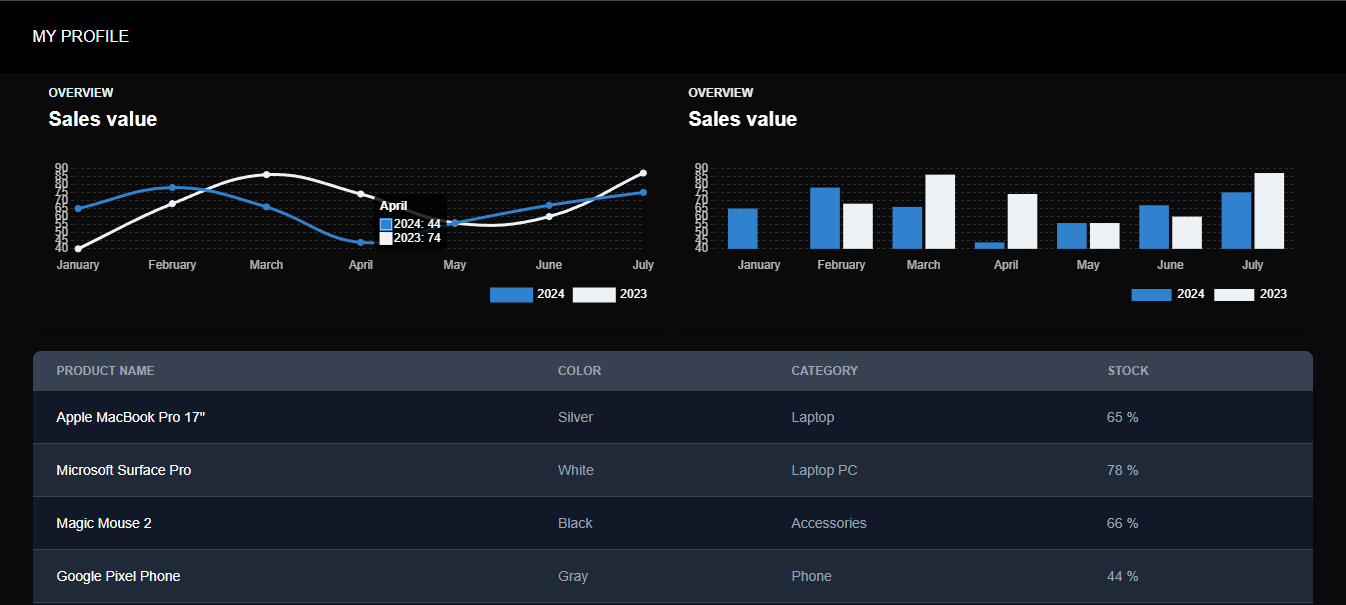
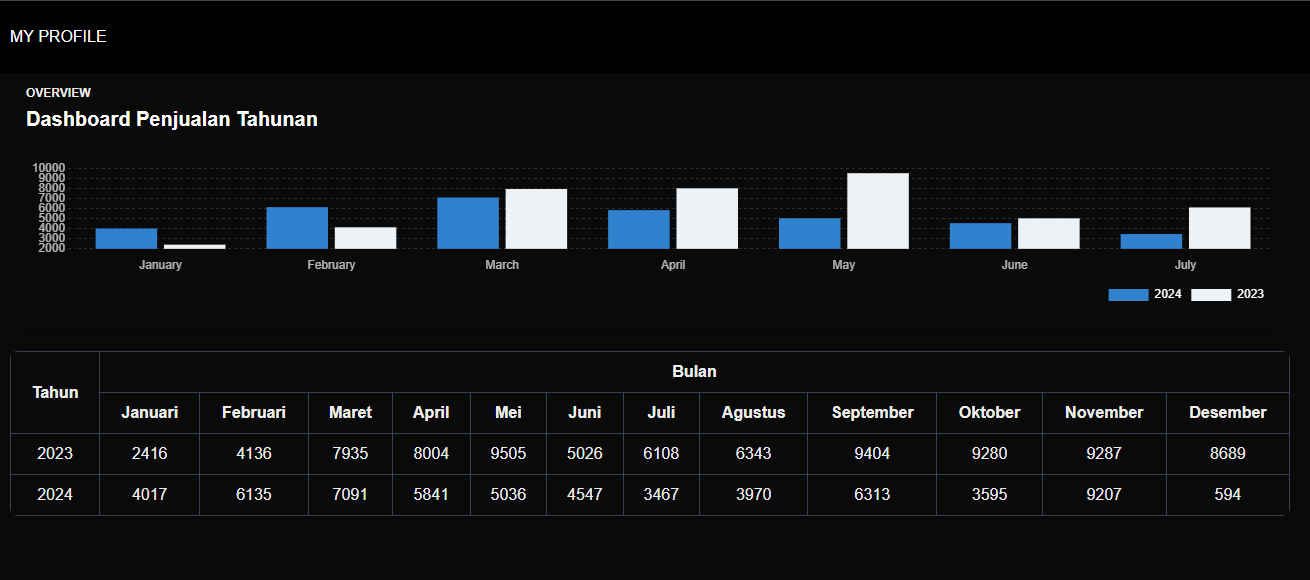
update chart

diff --git a/src/pages/components/SalesChart.js b/src/pages/components/SalesChart.js
@@ -2,109 +2,13 @@ import React from "react";
 import Chart from "chart.js";
 
 export default function CardLineChart() {
+
+  const dataDiagram = {
+    '2023': [2416, 4136, 7935, 8004, 9505, 5026, 6108, 6343, 9404, 9280, 9287, 8689],
+    '2024': [4017, 6135, 7091, 5841, 5036, 4547, 3467, 3970, 6313, 3595, 9207, 594]
+  }
+
   React.useEffect(() => {
-    var config = {
-      type: "line",
-      data: {
-        labels: [
-          "January",
-          "February",
-          "March",
-          "April",
-          "May",
-          "June",
-          "July",
-        ],
-        datasets: [
-          {
-            label: new Date().getFullYear(),
-            backgroundColor: "#3182ce",
-            borderColor: "#3182ce",
-            data: [65, 78, 66, 44, 56, 67, 75],
-            fill: false,
-          },
-          {
-            label: new Date().getFullYear() - 1,
-            fill: false,
-            backgroundColor: "#edf2f7",
-            borderColor: "#edf2f7",
-            data: [40, 68, 86, 74, 56, 60, 87],
-          },
-        ],
-      },
-      options: {
-        maintainAspectRatio: false,
-        responsive: true,
-        title: {
-          display: false,
-          text: "Sales Charts",
-          fontColor: "white",
-        },
-        legend: {
-          labels: {
-            fontColor: "white",
-          },
-          align: "end",
-          position: "bottom",
-        },
-        tooltips: {
-          mode: "index",
-          intersect: false,
-        },
-        hover: {
-          mode: "nearest",
-          intersect: true,
-        },
-        scales: {
-          xAxes: [
-            {
-              ticks: {
-                fontColor: "rgba(255,255,255,.7)",
-              },
-              display: true,
-              scaleLabel: {
-                display: false,
-                labelString: "Month",
-                fontColor: "white",
-              },
-              gridLines: {
-                display: false,
-                borderDash: [2],
-                borderDashOffset: [2],
-                color: "rgba(33, 37, 41, 0.3)",
-                zeroLineColor: "rgba(0, 0, 0, 0)",
-                zeroLineBorderDash: [2],
-                zeroLineBorderDashOffset: [2],
-              },
-            },
-          ],
-          yAxes: [
-            {
-              ticks: {
-                fontColor: "rgba(255,255,255,.7)",
-              },
-              display: true,
-              scaleLabel: {
-                display: false,
-                labelString: "Value",
-                fontColor: "white",
-              },
-              gridLines: {
-                borderDash: [3],
-                borderDashOffset: [3],
-                drawBorder: false,
-                color: "rgba(255, 255, 255, 0.15)",
-                zeroLineColor: "rgba(33, 37, 41, 0)",
-                zeroLineBorderDash: [2],
-                zeroLineBorderDashOffset: [2],
-              },
-            },
-          ],
-        },
-      },
-    };
-
-
     var config_bar = {
         type: "bar",
         data: {
@@ -122,7 +26,7 @@ export default function CardLineChart() {
               label: new Date().getFullYear(),
               backgroundColor: "#3182ce",
               borderColor: "#3182ce",
-              data: [65, 78, 66, 44, 56, 67, 75],
+              data: [4017, 6135, 7091, 5841, 5036, 4547, 3467, 3970,6313, 3595, 9207, 5945],
               fill: false,
             },
             {
@@ -130,7 +34,7 @@ export default function CardLineChart() {
               fill: false,
               backgroundColor: "#edf2f7",
               borderColor: "#edf2f7",
-              data: [40, 68, 86, 74, 56, 60, 87],
+              data: [2416, 4136, 7935, 8004, 9505, 5026, 6108, 6343,9404, 9280, 9287, 8689],
             },
           ],
         },
@@ -206,15 +110,13 @@ export default function CardLineChart() {
         },
       };
 
-    var ctx = document.getElementById("line-chart").getContext("2d");
-    window.myLine = new Chart(ctx, config);
-
     var ctx = document.getElementById("line-chart2").getContext("2d");
     window.myLine = new Chart(ctx, config_bar);
   }, []);
   return (
     <>
-      <div className="grid grid-cols-2">
+      <div className="grid grid-cols-1">
+       
         <div className="relative flex flex-col min-w-0 break-words w-full mb-6 shadow-lg rounded bg-blueGray-700">
             <div className="rounded-t mb-0 px-4 py-3 bg-transparent">
             <div className="flex flex-wrap items-center">
@@ -222,26 +124,7 @@ export default function CardLineChart() {
                 <h6 className="uppercase text-blueGray-100 mb-1 text-xs font-semibold">
                     Overview
                 </h6>
-                <h2 className="text-white text-xl font-semibold">Sales value</h2>
-                </div>
-            </div>
-            </div>
-            <div className="p-4 flex-auto">
-            {/* Chart */}
-            <div className="relative h-350-px">
-                <canvas id="line-chart"></canvas>
-            </div>
-            </div>
-        </div>
-
-        <div className="relative flex flex-col min-w-0 break-words w-full mb-6 shadow-lg rounded bg-blueGray-700">
-            <div className="rounded-t mb-0 px-4 py-3 bg-transparent">
-            <div className="flex flex-wrap items-center">
-                <div className="relative w-full max-w-full flex-grow flex-1">
-                <h6 className="uppercase text-blueGray-100 mb-1 text-xs font-semibold">
-                    Overview
-                </h6>
-                <h2 className="text-white text-xl font-semibold">Sales value</h2>
+                <h2 className="text-white text-xl font-semibold">Dashboard Penjualan Tahunan</h2>
                 </div>
             </div>
             </div>
@@ -256,125 +139,44 @@ export default function CardLineChart() {
 
       <div>
 
-        <div className="relative overflow-x-auto shadow-md sm:rounded-lg">
-            <table className="w-full text-sm text-left rtl:text-right text-gray-500 dark:text-gray-400">
-                <thead className="text-xs text-gray-700 uppercase bg-gray-50 dark:bg-gray-700 dark:text-gray-400">
-                    <tr>
-                        <th scope="col" className="px-6 py-3">
-                            Product name
-                        </th>
-                        <th scope="col" className="px-6 py-3">
-                            Color
-                        </th>
-                        <th scope="col" className="px-6 py-3">
-                            Category
-                        </th>
-                        <th scope="col" className="px-6 py-3">
-                            Stock
-                        </th>
-                    </tr>
-                </thead>
-                <tbody>
-                    <tr className="odd:bg-white odd:dark:bg-gray-900 even:bg-gray-50 even:dark:bg-gray-800 border-b dark:border-gray-700">
-                        <th scope="row" className="px-6 py-4 font-medium text-gray-900 whitespace-nowrap dark:text-white">
-                            Apple MacBook Pro 17
-                        </th>
-                        <td className="px-6 py-4">
-                            Silver
-                        </td>
-                        <td className="px-6 py-4">
-                            Laptop
-                        </td>
-                        <td className="px-6 py-4">
-                            65 %
-                        </td>
-                    </tr>
-                    <tr className="odd:bg-white odd:dark:bg-gray-900 even:bg-gray-50 even:dark:bg-gray-800 border-b dark:border-gray-700">
-                        <th scope="row" className="px-6 py-4 font-medium text-gray-900 whitespace-nowrap dark:text-white">
-                            Microsoft Surface Pro
-                        </th>
-                        <td className="px-6 py-4">
-                            White
-                        </td>
-                        <td className="px-6 py-4">
-                            Laptop PC
-                        </td>
-                        <td className="px-6 py-4">
-                            78 %
-                        </td>
-                    </tr>
-                    <tr className="odd:bg-white odd:dark:bg-gray-900 even:bg-gray-50 even:dark:bg-gray-800 border-b dark:border-gray-700">
-                        <th scope="row" className="px-6 py-4 font-medium text-gray-900 whitespace-nowrap dark:text-white">
-                            Magic Mouse 2
-                        </th>
-                        <td className="px-6 py-4">
-                            Black
-                        </td>
-                        <td className="px-6 py-4">
-                            Accessories
-                        </td>
-                        <td className="px-6 py-4">
-                         66 %
-                        </td>
-                    </tr>
-                    <tr className="odd:bg-white odd:dark:bg-gray-900 even:bg-gray-50 even:dark:bg-gray-800 border-b dark:border-gray-700">
-                        <th scope="row" className="px-6 py-4 font-medium text-gray-900 whitespace-nowrap dark:text-white">
-                            Google Pixel Phone
-                        </th>
-                        <td className="px-6 py-4">
-                            Gray
-                        </td>
-                        <td className="px-6 py-4">
-                            Phone
-                        </td>
-                        <td className="px-6 py-4">
-                            44 %
-                        </td>
-                    </tr>
-                    <tr className="odd:bg-white odd:dark:bg-gray-900 even:bg-gray-50 even:dark:bg-gray-800 border-b dark:border-gray-700">
-                        <th scope="row" className="px-6 py-4 font-medium text-gray-900 whitespace-nowrap dark:text-white">
-                            Apple Watch 5
-                        </th>
-                        <td className="px-6 py-4">
-                            Red
-                        </td>
-                        <td className="px-6 py-4">
-                            Wearables
-                        </td>
-                        <td className="px-6 py-4">
-                            56 %
-                        </td>
-                    </tr>
-                    <tr  className="odd:bg-white odd:dark:bg-gray-900 even:bg-gray-50 even:dark:bg-gray-800 border-b dark:border-gray-700">
-                        <th scope="row" className="px-6 py-4 font-medium text-gray-900 whitespace-nowrap dark:text-white">
-                            Apple Watch 5
-                        </th>
-                        <td className="px-6 py-4">
-                            Red
-                        </td>
-                        <td className="px-6 py-4">
-                            Wearables
-                        </td>
-                        <td className="px-6 py-4">
-                            67 %
-                        </td>
-                    </tr>
-                    <tr  className="odd:bg-white odd:dark:bg-gray-900 even:bg-gray-50 even:dark:bg-gray-800 border-b dark:border-gray-700">
-                        <th scope="row" className="px-6 py-4 font-medium text-gray-900 whitespace-nowrap dark:text-white">
-                            Apple Watch 5
-                        </th>
-                        <td className="px-6 py-4">
-                            Red
-                        </td>
-                        <td className="px-6 py-4">
-                            Wearables
-                        </td>
-                        <td className="px-6 py-4">
-                            75 %
-                        </td>
-                    </tr>
-                </tbody>
-            </table>
+        <div className="relative overflow-x-auto shadow-md sm:rounded-lg w-full">
+          <table id="data-table" className="w-full">
+              <thead>
+                  <tr>
+                      <th rowspan="2" className="border border-gray-700 px-4 py-2">Tahun</th>
+                      <th colspan="12" className="border border-gray-700 px-4 py-2">Bulan</th>
+                  </tr>
+                  <tr>
+                    <th className="border border-gray-700 px-4 py-2">Januari</th>
+                    <th className="border border-gray-700 px-4 py-2">Februari</th>
+                    <th className="border border-gray-700 px-4 py-2">Maret</th>
+                    <th className="border border-gray-700 px-4 py-2">April</th>
+                    <th className="border border-gray-700 px-4 py-2">Mei</th>
+                    <th className="border border-gray-700 px-4 py-2">Juni</th>
+                    <th className="border border-gray-700 px-4 py-2">Juli</th>
+                    <th className="border border-gray-700 px-4 py-2">Agustus</th>
+                    <th className="border border-gray-700 px-4 py-2">September</th>
+                    <th className="border border-gray-700 px-4 py-2">Oktober</th>
+                    <th className="border border-gray-700 px-4 py-2">November</th>
+                    <th className="border border-gray-700 px-4 py-2">Desember</th>
+                  </tr>
+              </thead>            
+              <tbody>
+                {Object.entries(dataDiagram).map(([year, data]) => (
+                  <tr key={year} className="gap-5">
+                    <td rowSpan={1} className="border border-gray-700 px-4 py-2 text-center">
+                      {year}
+                    </td>
+                    {data.map((value, index) => (
+                      <td key={`${year}-${index}`} className="border border-gray-700 px-4 py-2 text-center">
+                        {value}
+                      </td>
+                    ))}
+                  </tr>
+                ))}
+              </tbody>
+              <tfoot id="totalRow"></tfoot>
+          </table>
         </div>
 
       </div>
